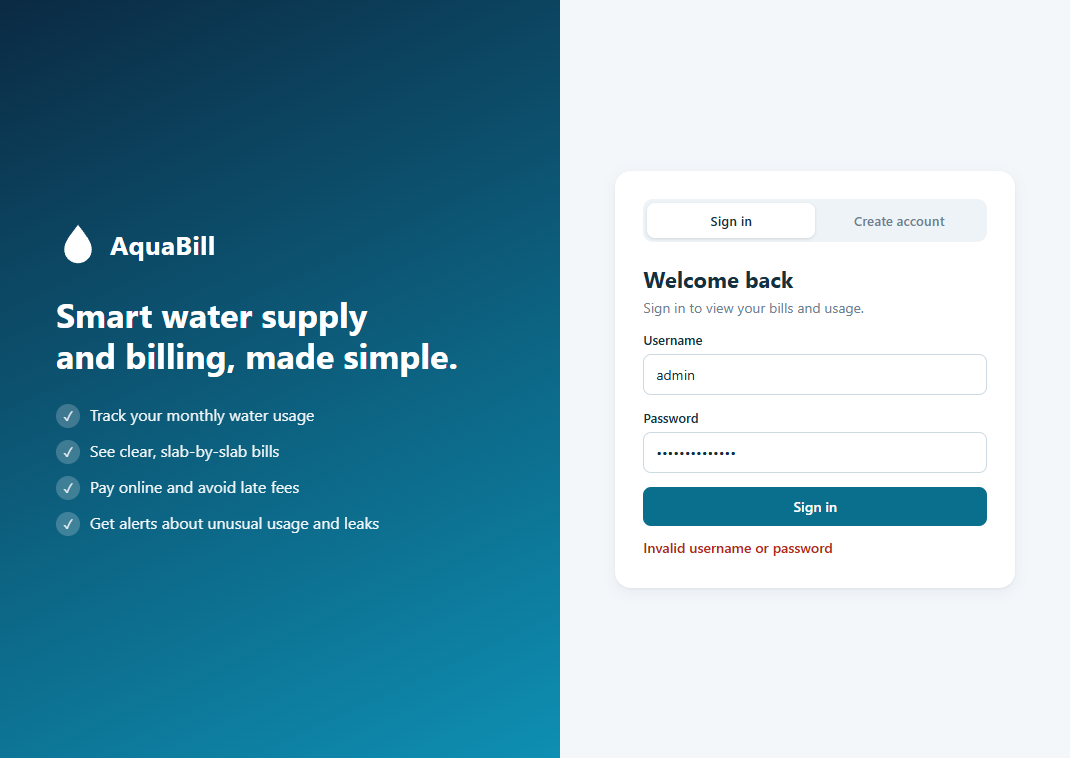
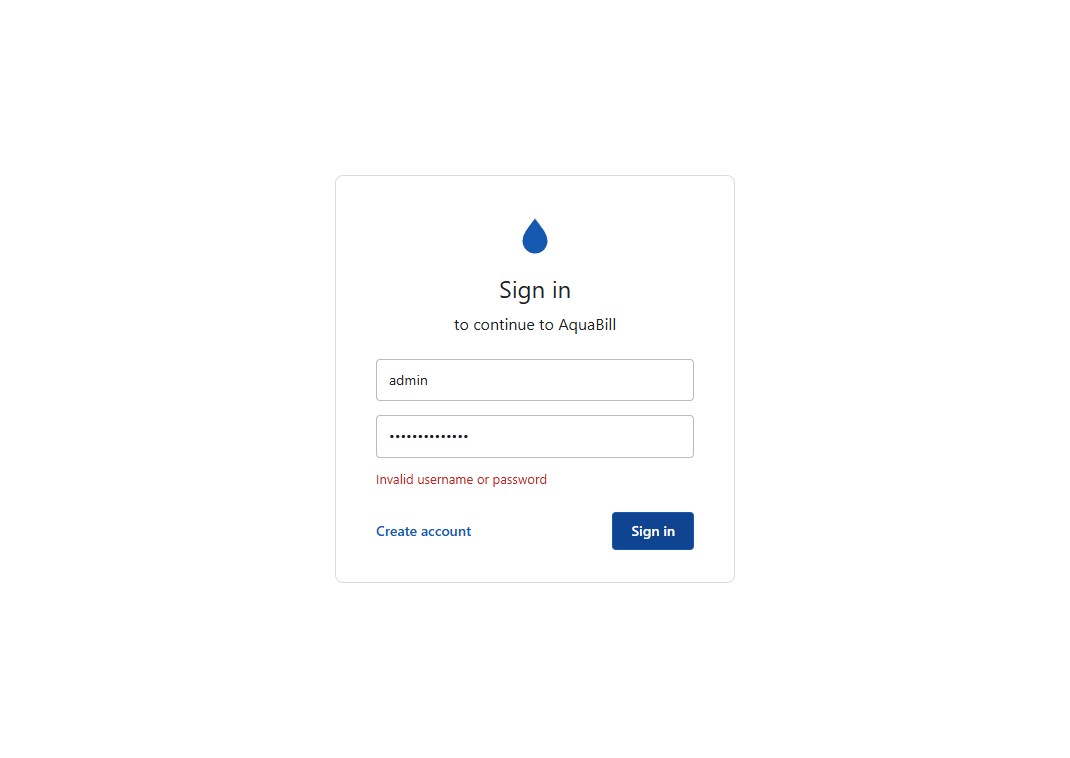
Update Selenium tests for the new UI; refresh screenshots

diff --git a/05_Test_Automation/test_ui_selenium.py b/05_Test_Automation/test_ui_selenium.py
@@ -5,12 +5,14 @@ import socket
 import threading
 import time
 
+import httpx
 import pytest
 import uvicorn
 
 pytestmark = pytest.mark.ui
 selenium = pytest.importorskip("selenium")
 from selenium import webdriver  # noqa: E402
+from selenium.common.exceptions import StaleElementReferenceException  # noqa: E402
 from selenium.webdriver.common.by import By  # noqa: E402
 from selenium.webdriver.edge.options import Options  # noqa: E402
 from selenium.webdriver.support import expected_conditions as EC  # noqa: E402
@@ -85,7 +87,11 @@ def login_as_admin(d):
 
 
 def open_page(d, name):
-    d.find_element(By.ID, "nav-" + name).click()
+    item = d.find_element(By.ID, "nav-" + name)
+    if "active" in item.get_attribute("class"):      # already the landing page: don't trigger a second render
+        time.sleep(0.8)
+        return
+    item.click()
 
 
 def logout(d):
@@ -99,8 +105,20 @@ def test_TC_UI01_invalid_login_shows_error(driver):
     shot(driver, "UI01_login_screen_error")
 
 
-def test_TC_UI02_bill_estimator(driver):
-    login_as_admin(driver)
+def ensure_customer(base_url, username, password="secret1"):
+    """Create a customer through the API (ignore 'already exists')."""
+    httpx.post(base_url + "/api/auth/register",
+               json={"username": username, "password": password, "full_name": "Test Customer"})
+
+
+def login_as_customer(d, base_url, username="tester"):
+    ensure_customer(base_url, username)
+    login(d, username, "secret1")
+    wait_visible(d, "app")
+
+
+def test_TC_UI02_bill_estimator(driver, base_url):
+    login_as_customer(driver, base_url)
     open_page(driver, "estimator")
     fill(driver, "c-units", 25)
     driver.find_element(By.ID, "calc-btn").click()
@@ -108,8 +126,8 @@ def test_TC_UI02_bill_estimator(driver):
     shot(driver, "UI02_bill_estimator")
 
 
-def test_TC_UI03_estimator_negative_units_rejected(driver):
-    login_as_admin(driver)
+def test_TC_UI03_estimator_negative_units_rejected(driver, base_url):
+    login_as_customer(driver, base_url)
     open_page(driver, "estimator")
     fill(driver, "c-units", -5)
     driver.find_element(By.ID, "calc-btn").click()
@@ -121,8 +139,21 @@ def test_TC_UI04_admin_login_shows_admin_menu(driver):
     login_as_admin(driver)
     assert driver.find_element(By.ID, "who").text == "System Administrator"
     assert driver.find_element(By.ID, "role-label").text.lower() == "admin"
-    assert driver.find_element(By.ID, "nav-customers").is_displayed()
-    shot(driver, "UI04_admin_overview")
+    menu = [b.text for b in driver.find_elements(By.CSS_SELECTOR, "#nav .nav-item")]
+    assert menu == ["Customers", "Readings", "Bills"]
+    shot(driver, "UI04_admin_customers")
+
+
+def choose(d, elem_id, value=None, index=None):
+    """Pick a <select> option; retry if the page re-renders (and the element goes stale) mid-click."""
+    for _ in range(6):
+        try:
+            sel = Select(d.find_element(By.ID, elem_id))
+            sel.select_by_value(value) if value is not None else sel.select_by_index(index)
+            return
+        except StaleElementReferenceException:
+            time.sleep(0.4)
+    raise AssertionError(f"could not select an option in #{elem_id}")
 
 
 def test_TC_UI05_end_to_end_billing_and_payment(driver):
@@ -132,20 +163,20 @@ def test_TC_UI05_end_to_end_billing_and_payment(driver):
     fill(driver, "r-user", "ravi")
     fill(driver, "r-pass", "secret1")
     driver.find_element(By.ID, "register-btn").click()
-    cust_id = re.search(r"customer id is: (\d+)", text_of(driver, "auth-msg", "customer id")).group(1)
+    cust_id = re.search(r"customer id is: (\d+)", text_of(driver, "reg-msg", "customer id")).group(1)
     # 2. admin creates a connection, records two readings and generates the bill
     driver.find_element(By.ID, "tab-login").click()
     login_as_admin(driver)
     open_page(driver, "customers")
     WebDriverWait(driver, 8).until(EC.presence_of_element_located((By.ID, "a-cust")))
-    Select(driver.find_element(By.ID, "a-cust")).select_by_value(cust_id)
+    choose(driver, "a-cust", value=cust_id)
     fill(driver, "a-meter", "UIMTR1")
     fill(driver, "a-addr", "7 River View")
     driver.find_element(By.ID, "conn-btn").click()
     WebDriverWait(driver, 8).until(EC.text_to_be_present_in_element((By.ID, "customer-rows"), "UIMTR1"))
     open_page(driver, "readings")
     WebDriverWait(driver, 8).until(EC.presence_of_element_located((By.ID, "m-conn")))
-    Select(driver.find_element(By.ID, "m-conn")).select_by_index(1)
+    choose(driver, "m-conn", index=1)
     fill(driver, "m-read", 50)
     driver.find_element(By.ID, "read-btn").click()
     text_of(driver, "toast", "Reading saved")
@@ -160,15 +191,15 @@ def test_TC_UI05_end_to_end_billing_and_payment(driver):
     login(driver, "ravi", "secret1")
     wait_visible(driver, "app")
     open_page(driver, "bills")
-    row = WebDriverWait(driver, 8).until(EC.presence_of_element_located((By.CSS_SELECTOR, "#bill-rows tr")))
-    assert "UNPAID" in row.text
-    row.find_element(By.CSS_SELECTOR, ".pay-btn").click()
+    WebDriverWait(driver, 8).until(EC.text_to_be_present_in_element((By.ID, "bill-rows"), "Unpaid"))
+    shot(driver, "UI05b_customer_bills")
+    driver.find_element(By.CSS_SELECTOR, "#bill-rows .pay-btn").click()
     wait_visible(driver, "pay-modal")
     assert "\u20b9240.00" in driver.find_element(By.ID, "pay-total").text
-    shot(driver, "UI05b_payment_dialog")
+    shot(driver, "UI05c_payment_dialog")
     driver.find_element(By.ID, "confirm-ok").click()
-    WebDriverWait(driver, 8).until(EC.text_to_be_present_in_element((By.CSS_SELECTOR, "#bill-rows .status"), "PAID"))
-    shot(driver, "UI05c_bill_paid")
+    WebDriverWait(driver, 8).until(EC.text_to_be_present_in_element((By.CSS_SELECTOR, "#bill-rows .status"), "Paid"))
+    shot(driver, "UI05d_bill_paid")
 
 
 def test_TC_UI06_logout_returns_to_login_and_session_is_gone(driver):
@@ -179,10 +210,10 @@ def test_TC_UI06_logout_returns_to_login_and_session_is_gone(driver):
     assert not driver.find_element(By.ID, "app").is_displayed()
 
 
-def test_TC_UI07_customer_does_not_see_admin_menu(driver):
-    login(driver, "ravi", "secret1")
-    wait_visible(driver, "app")
+def test_TC_UI07_customer_does_not_see_admin_menu(driver, base_url):
+    login_as_customer(driver, base_url)
     assert driver.find_elements(By.ID, "nav-customers") == []
     assert driver.find_elements(By.ID, "nav-readings") == []
-    assert driver.find_element(By.ID, "nav-bills").is_displayed()
-    shot(driver, "UI07_customer_dashboard")
+    menu = [b.text for b in driver.find_elements(By.CSS_SELECTOR, "#nav .nav-item")]
+    assert menu == ["My bills", "Estimate"]
+    shot(driver, "UI07_customer_menu")
